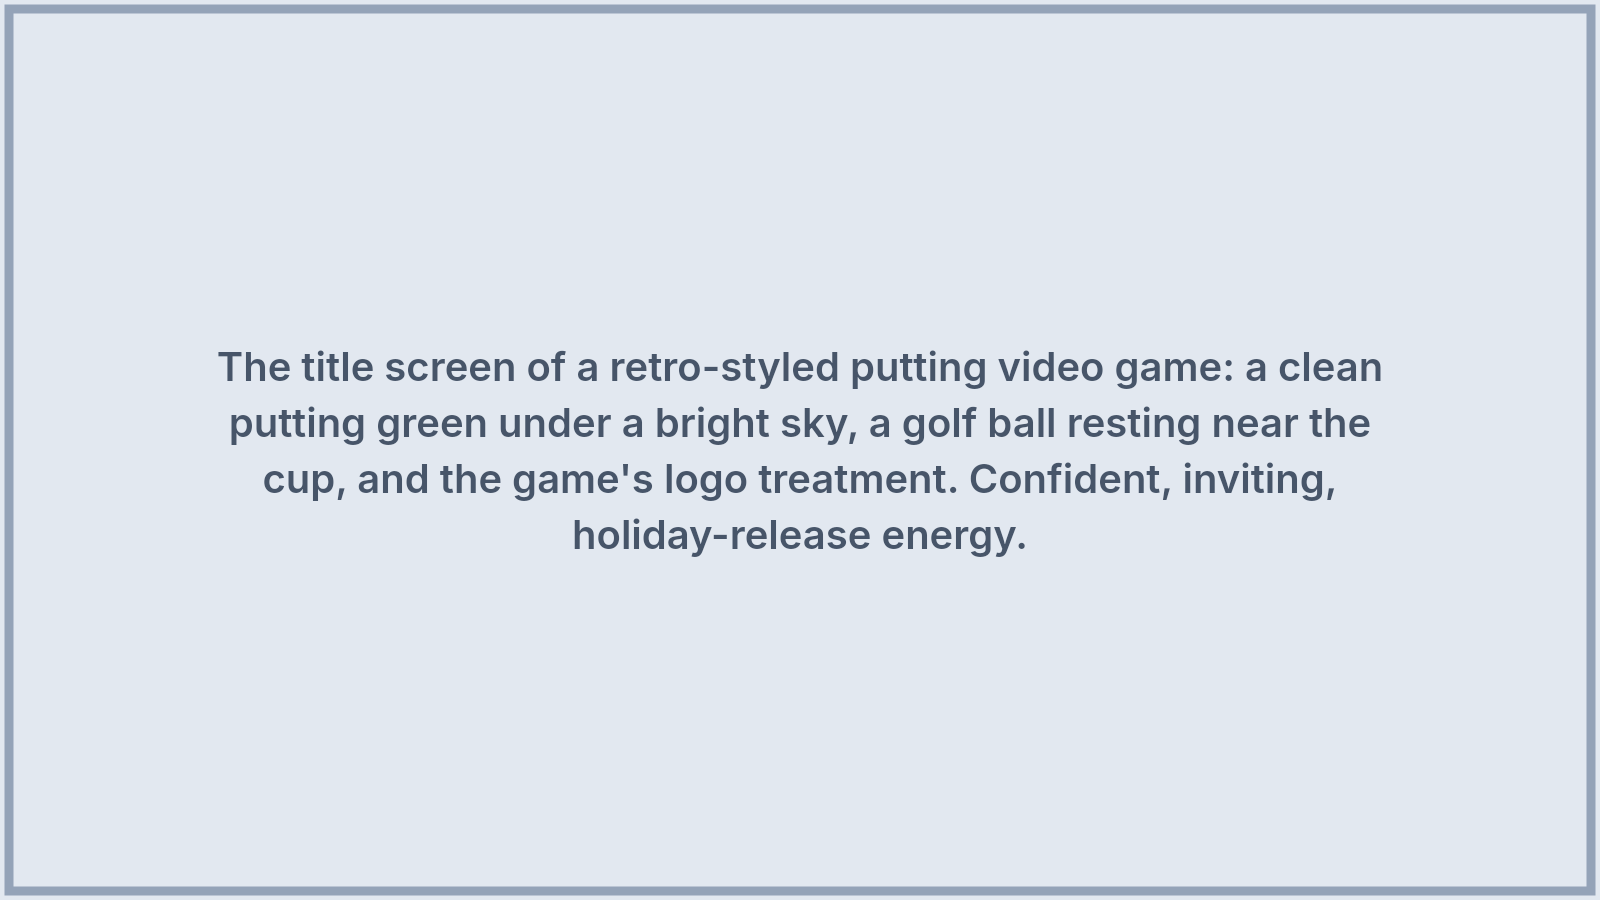
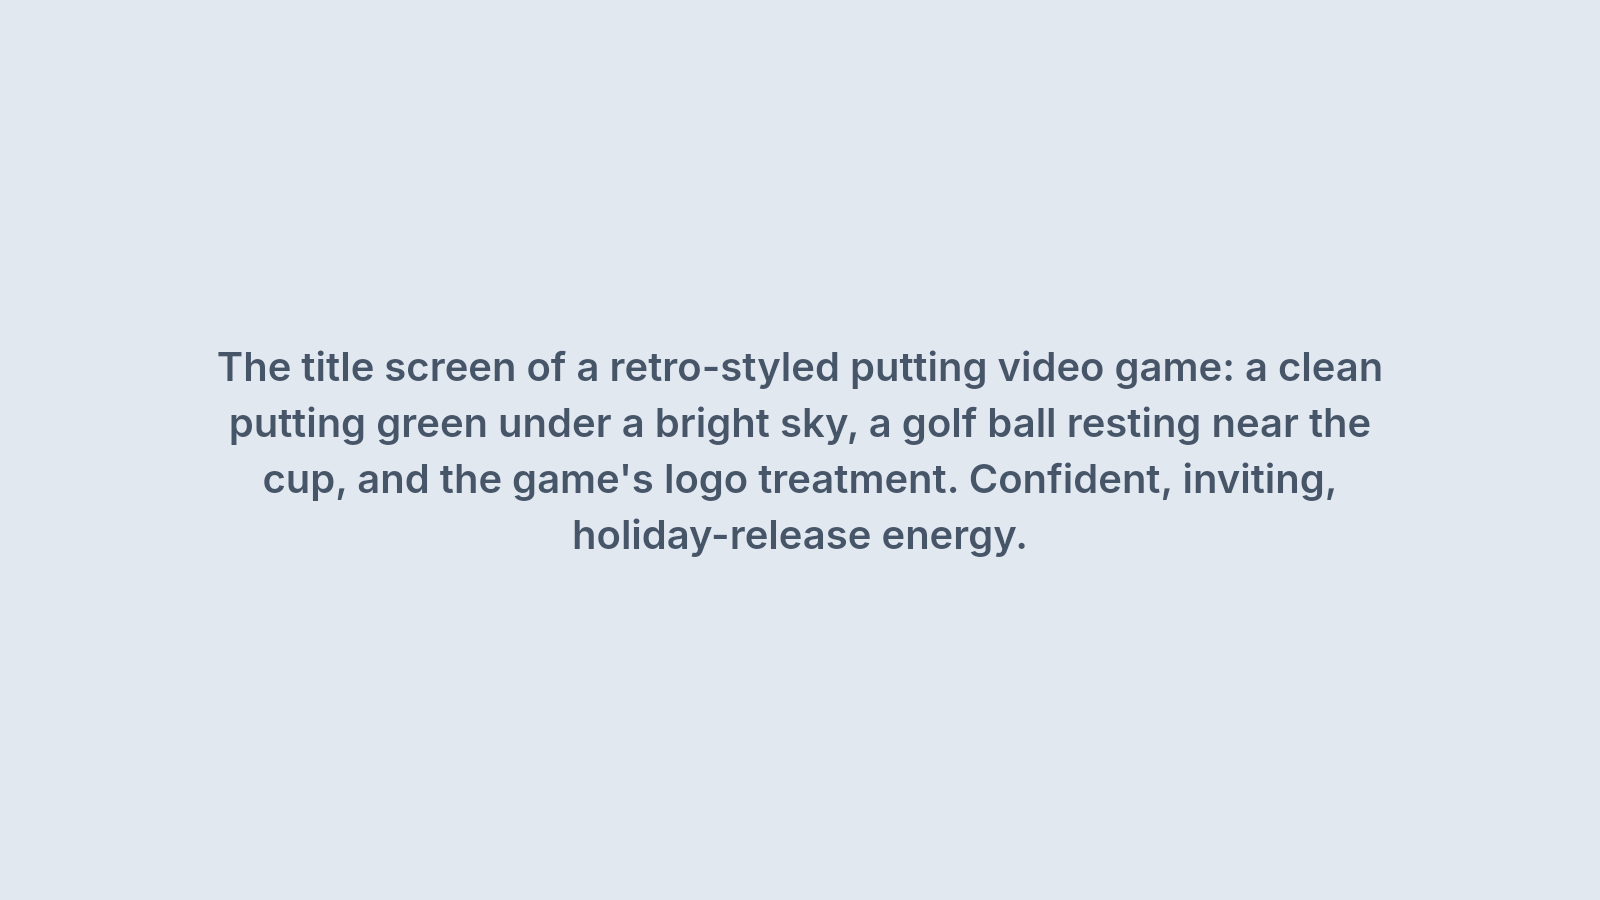
fix(placeholders): drop the inner border, center the description only
Remove the inset frame stroke from the generated placeholder PNGs — just
the neutral fill + centered word-wrapped description. Regenerate the
committed example sites' images.

Changed region(s): [[0.0, 0.0, 1.0, 0.9956]]

diff --git a/scripts/placeholder-gen.ts b/scripts/placeholder-gen.ts
@@ -32,10 +32,9 @@ import { resolveSiteDir } from "../packages/core/src/config/loadSiteConfig";
 const FONT_PATH = join(process.cwd(), "scripts", "assets", "fonts", "Inter-SemiBold.ttf");
 const FONT_ALIAS = "PlaceholderSans";
 
-/** Neutral placeholder palette — a light slate fill with darker slate text + border. */
+/** Neutral placeholder palette — a light slate fill with darker slate text. */
 const BG_FILL = "#e2e8f0";
 const TEXT_FILL = "#475569";
-const BORDER_FILL = "#94a3b8";
 
 /** Draw one manifest entry to a PNG buffer: neutral box + centered, word-wrapped description. */
 function drawPlaceholder(entry: PlaceholderEntry): Buffer {
@@ -43,13 +42,8 @@ function drawPlaceholder(entry: PlaceholderEntry): Buffer {
   const canvas = createCanvas(width, height);
   const ctx = canvas.getContext("2d");
 
-  // Background + a thin inset border so the box reads as a placeholder frame.
   ctx.fillStyle = BG_FILL;
   ctx.fillRect(0, 0, width, height);
-  const inset = Math.max(2, Math.round(Math.min(width, height) / 100));
-  ctx.strokeStyle = BORDER_FILL;
-  ctx.lineWidth = inset;
-  ctx.strokeRect(inset, inset, width - inset * 2, height - inset * 2);
 
   // Font size scales with the box width; wrap the description to a roughly constant column count so
   // every placeholder reads the same regardless of dimensions. Column estimate uses Inter's ~0.52
